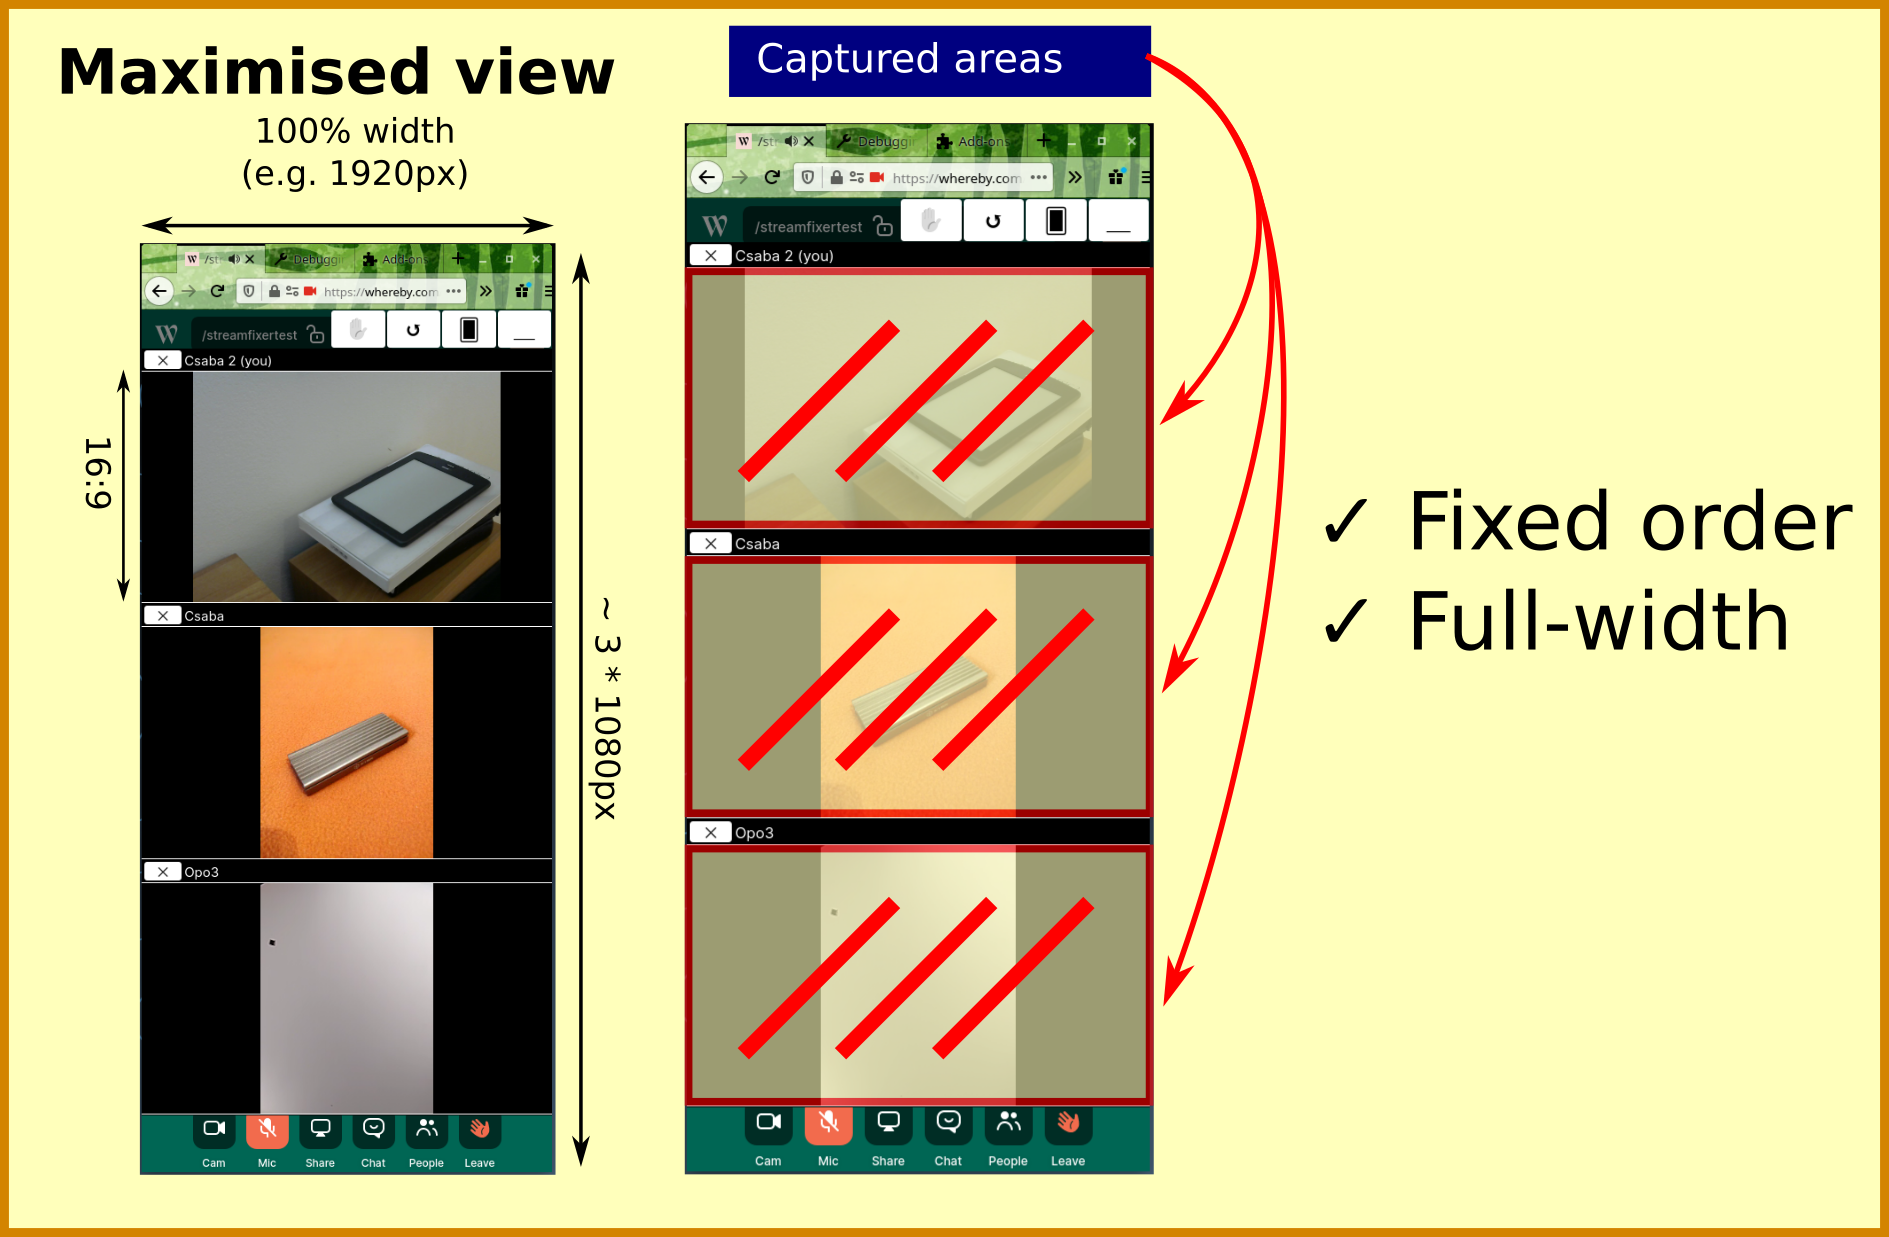
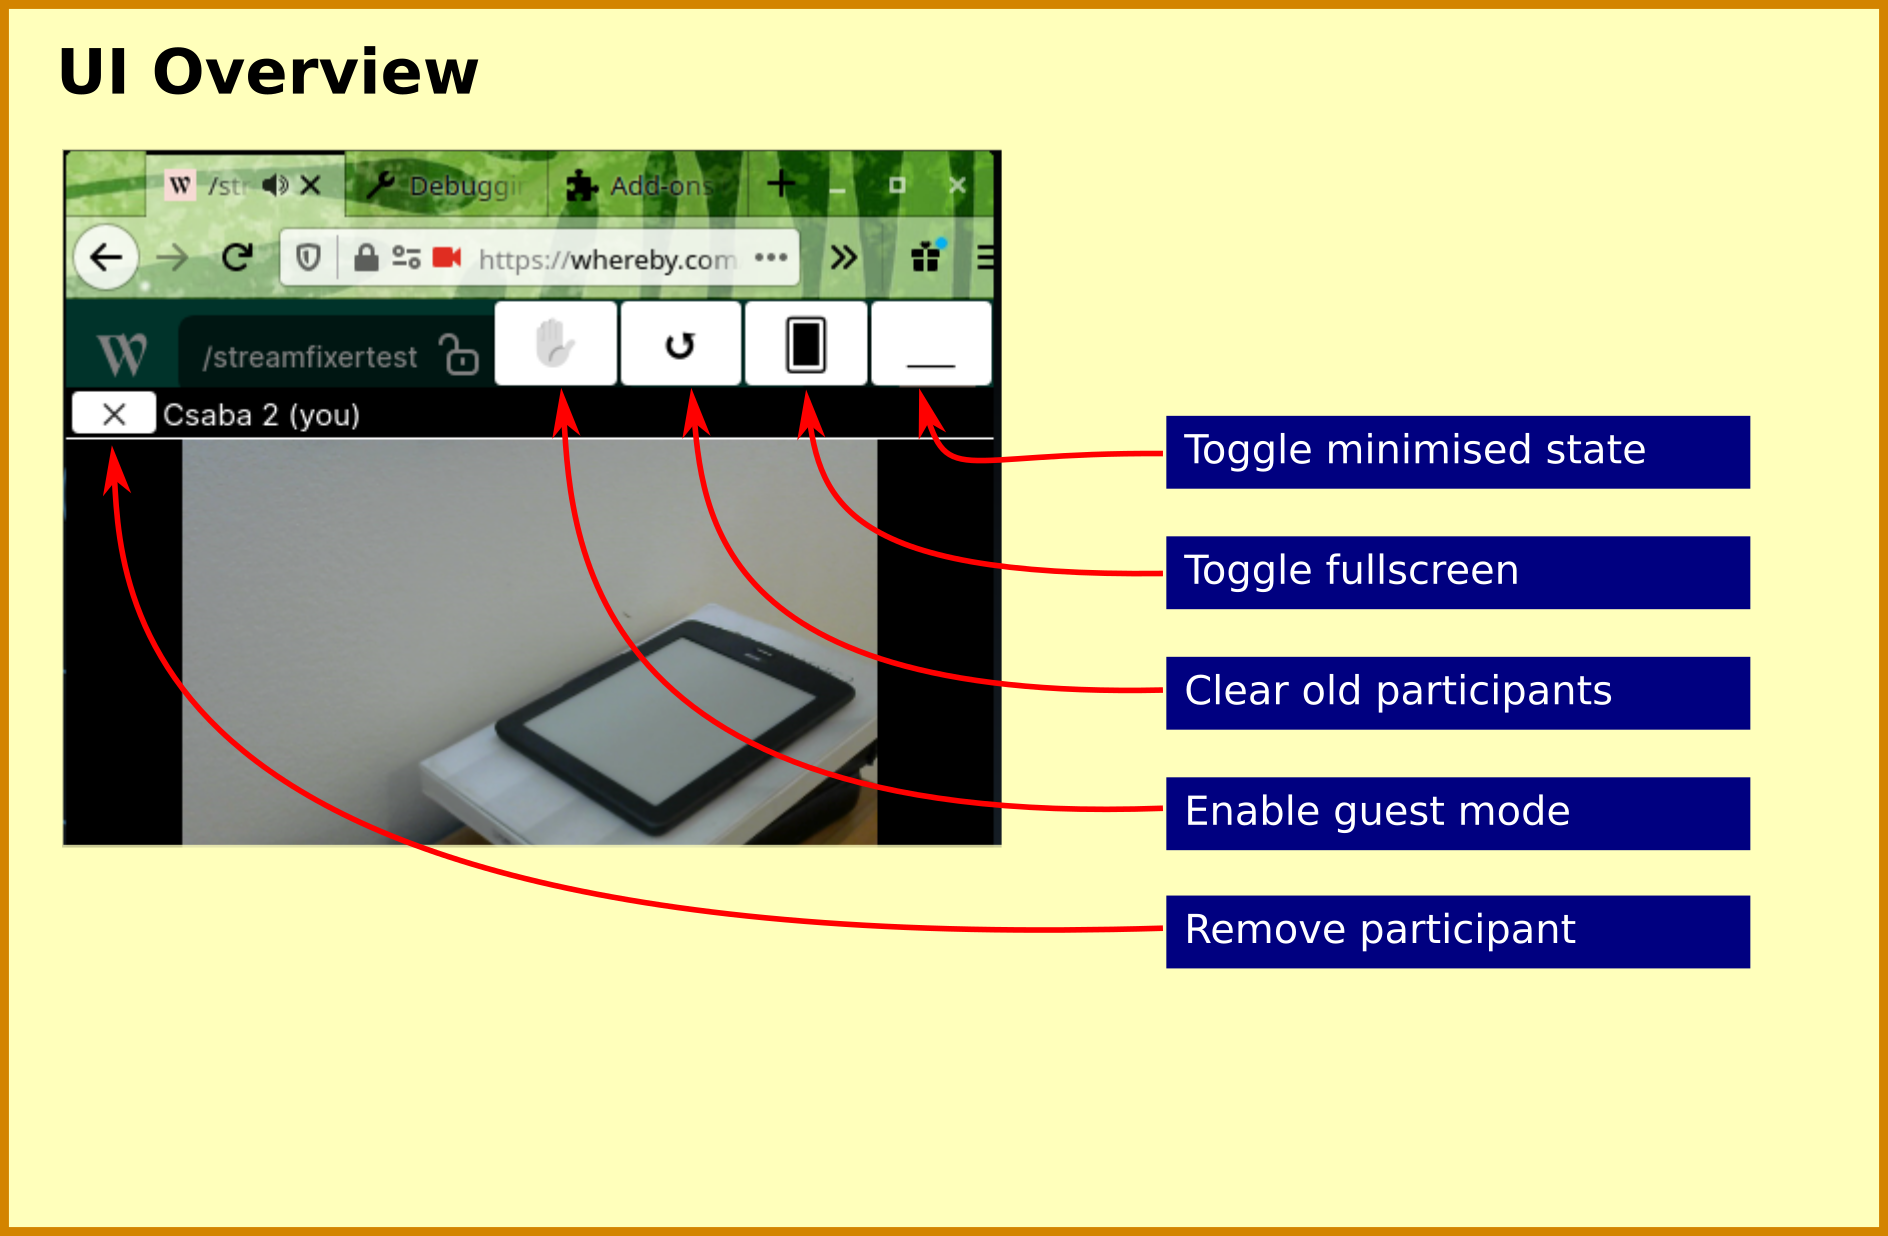
update docs

diff --git a/README.md b/README.md
@@ -30,7 +30,7 @@ See, how the layout changes when someone joins:
 ![Problem](docs/resources/problem.gif)
 
 # The solution
-StreamFixer offers a solution for that problem by creating a full-width fixed order single column from the streams available.
+StreamFixer offers a solution for that problem by creating a full-width fixed order single column list from the streams available.
 
 When someone joins, they will be put to the end of the stack.
 If they were already here, they will be put back where they were before. (Matched by name)
